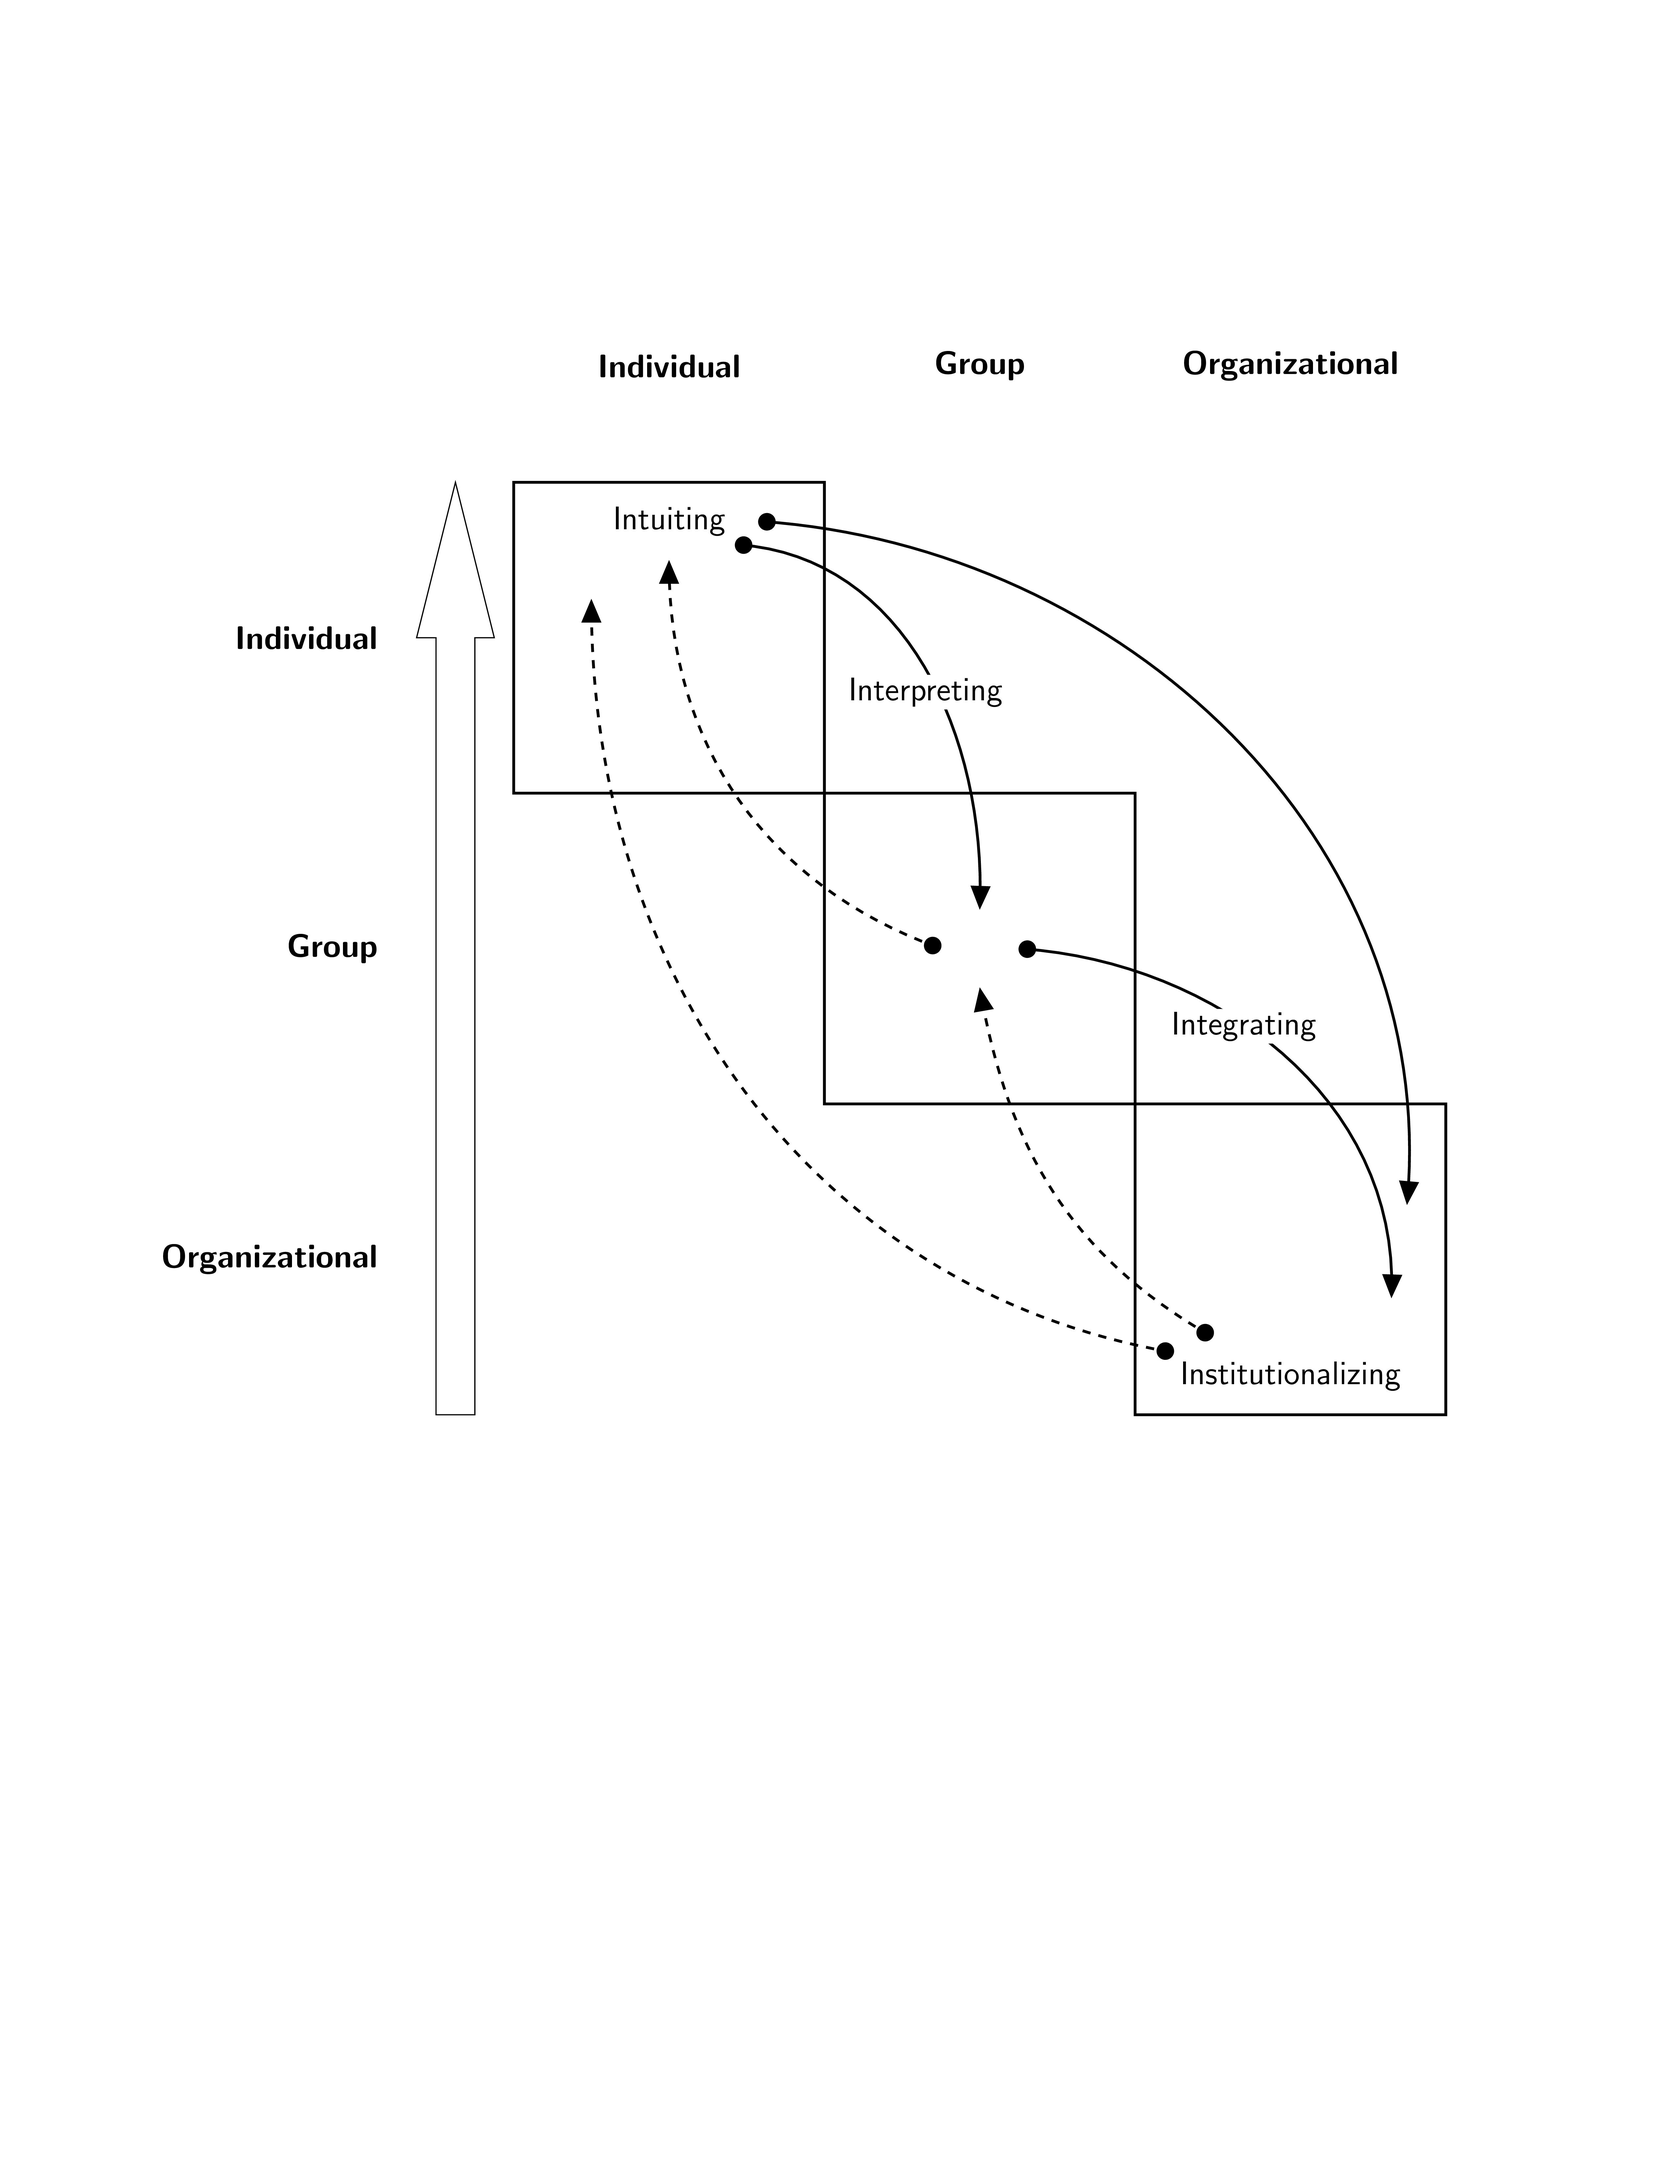
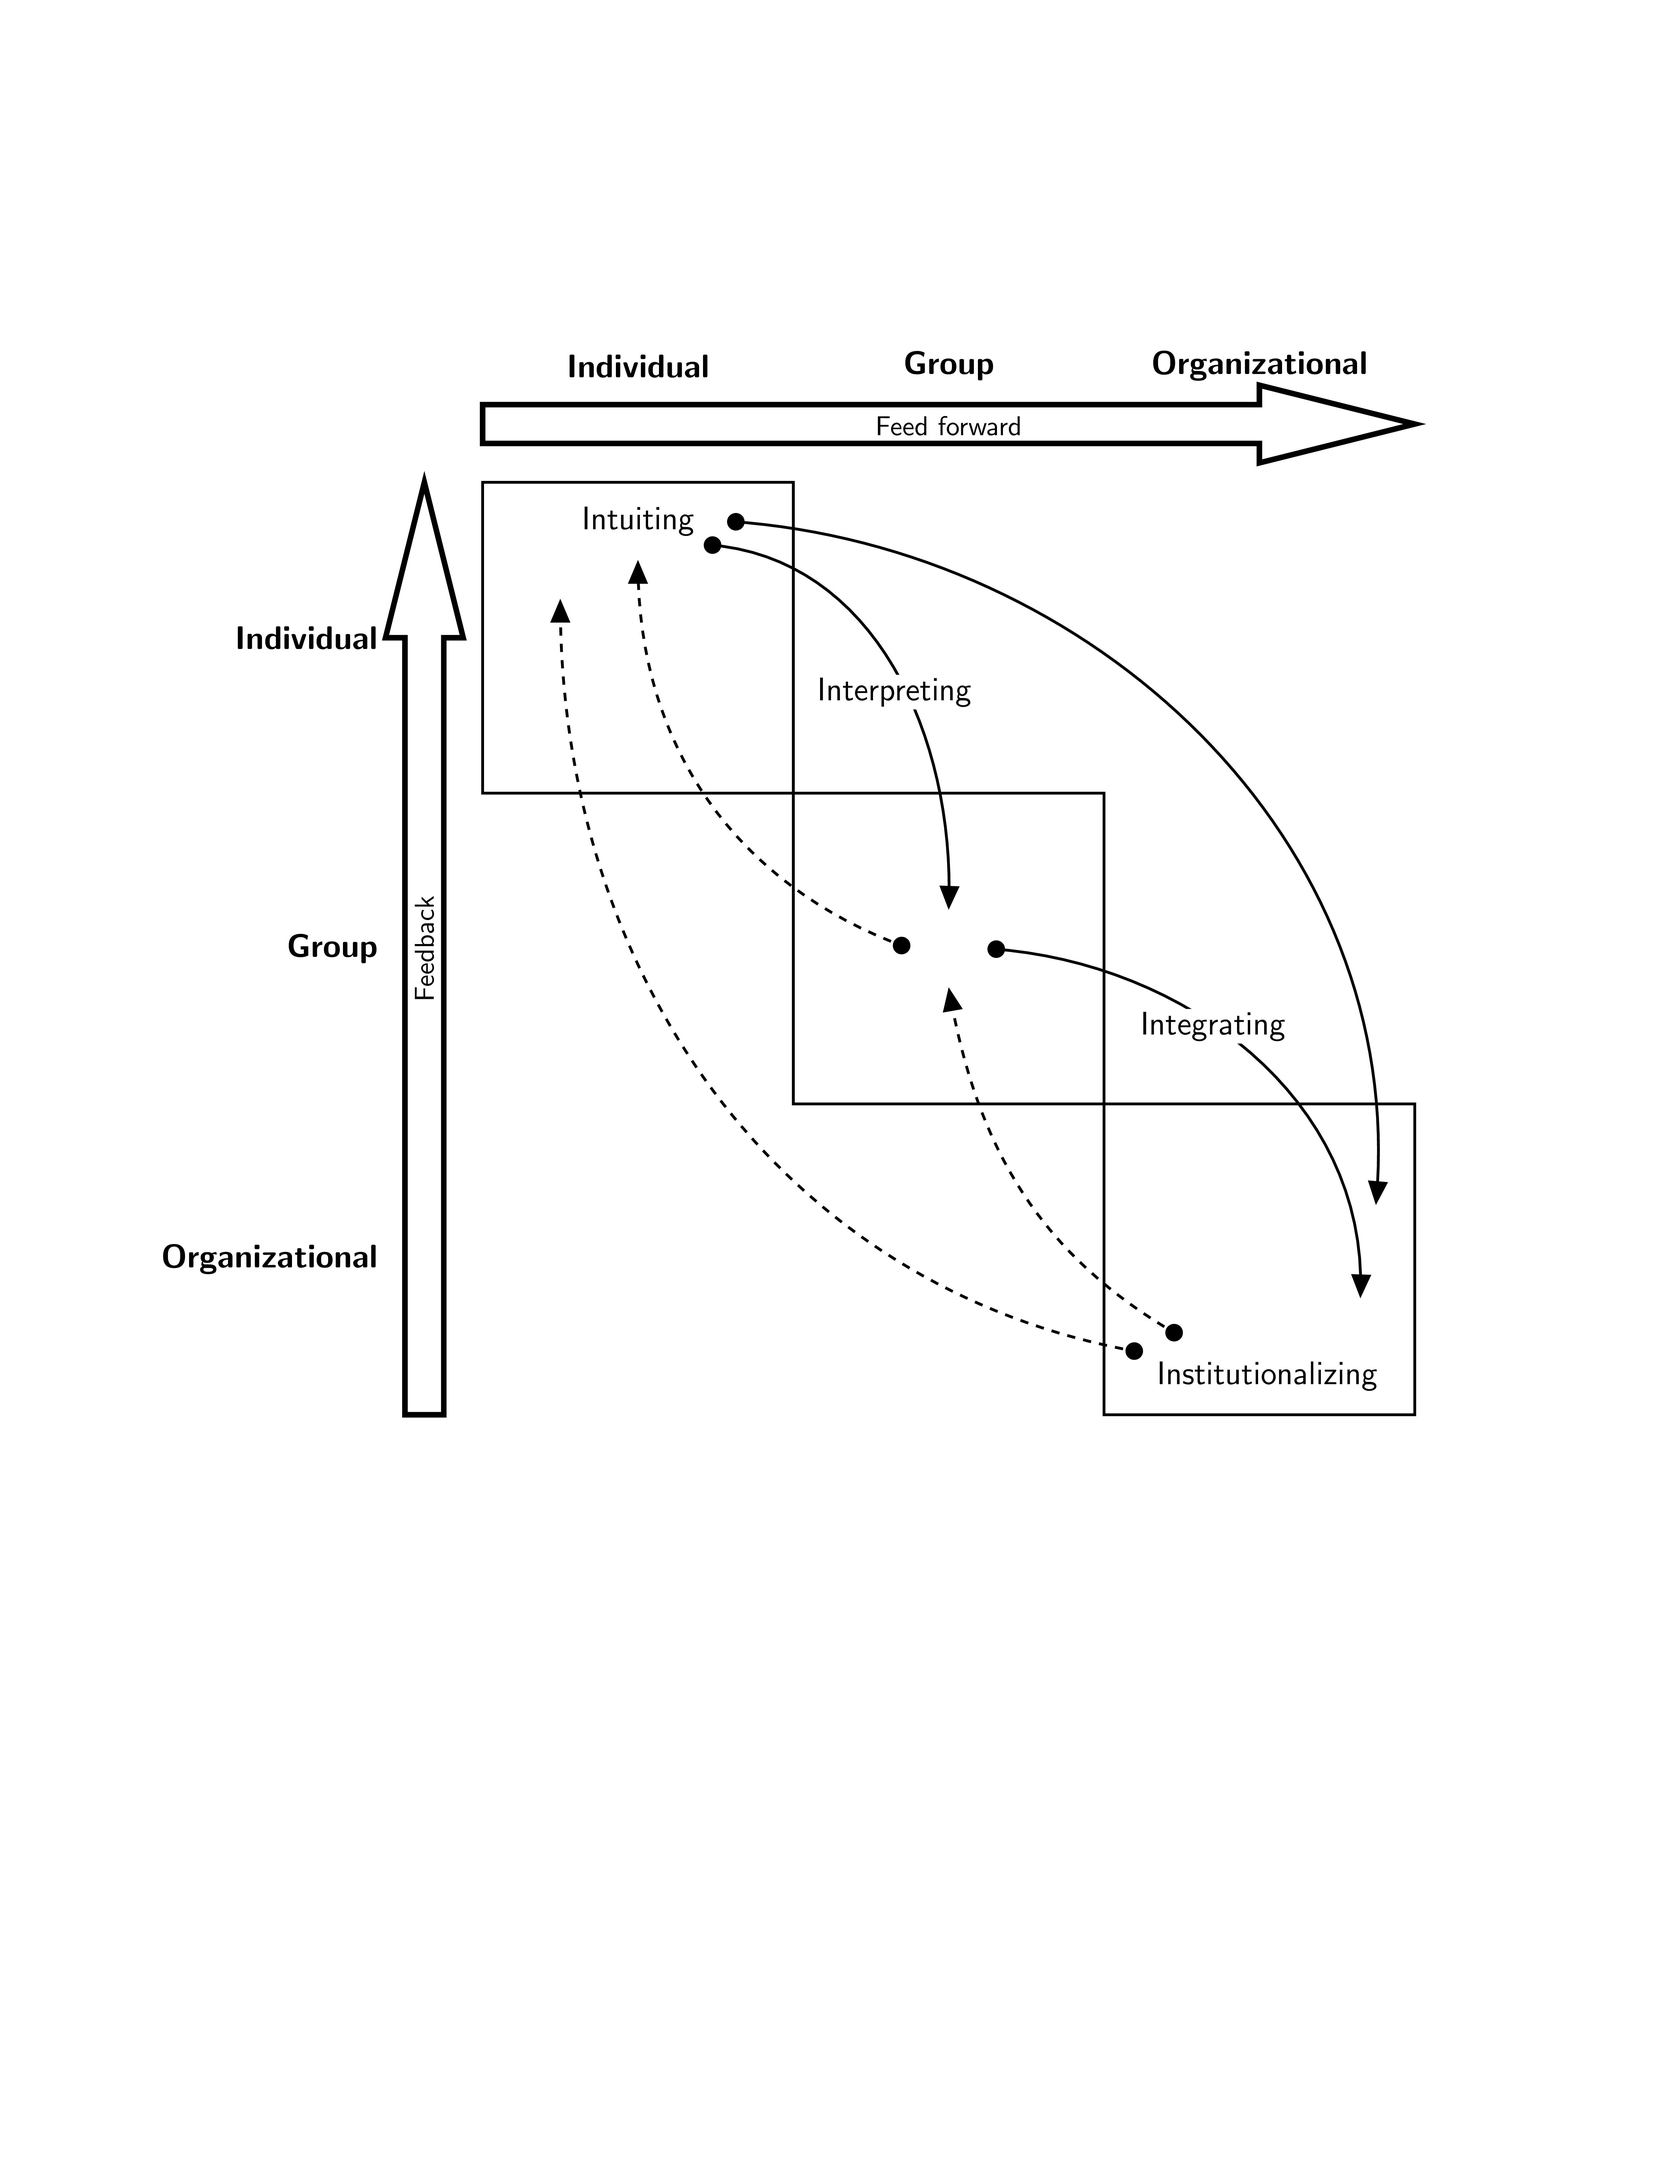
Completed diagram; added rotated arrow, text in arrows

diff --git a/Crossan_Lane_White_AMR24_3_1999_figure1_p532.tex b/Crossan_Lane_White_AMR24_3_1999_figure1_p532.tex
@@ -1,6 +1,9 @@
+
+
 % Copyright (C) 2015 Glen Newton
 % Author: Glen Newton
-%  Licensed under a Creative Commons Attribution-NonCommercial-ShareAlike 4.0 International License
+%  Licensed under a Creative Commons
+% Attribution-NonCommercial-ShareAlike 4.0 International License
 
 \documentclass{article}
 
@@ -27,35 +30,50 @@
 
 
 %%%%%%%%%%%%%%%%%%%%%%%%%%
-  \node[draw,rectangle,minimum width=4cm,minimum height=4cm,inner sep=0pt,outer sep=0pt,line width=1pt] at (2,2) (A1) {};
+  \node[draw,rectangle,minimum width=4cm,minimum height=4cm,inner
+sep=0pt,outer sep=0pt,line width=1pt] at (2,2) (A1) {};
   \node (NIntuiting) at ([yshift=15mm]A1.center) {\large Intuiting};
 
   %\draw[step=1cm,gray,very thin] (0,-8) grid (14,4);
 
 %%%%%%%%%%%%%%%%%%%%%%%%%%
-\node[draw,rectangle,minimum width=4cm,minimum height=4cm,inner sep=0pt,outer sep=0pt,line width=1pt] at (6,-2) (A2) {};
+\node[draw,rectangle,minimum width=4cm,minimum height=4cm,inner
+sep=0pt,outer sep=0pt,line width=1pt] at (6,-2) (A2) {};
 
 %%%%%%%%%%%%%%%%%%%%%%%%%%
-\node[draw,rectangle,minimum width=4cm,minimum height=4cm,inner sep=0pt,outer sep=0pt,line width=1pt] at (10,-6) (A3) {};
+\node[draw,rectangle,minimum width=4cm,minimum height=4cm,inner
+sep=0pt,outer sep=0pt,line width=1pt] at (10,-6) (A3) {};
 
 %%%
 
 %DOWN
 
-\draw [*->,line width=1pt] ([yshift=-3mm]NIntuiting.east) to [out=-4,in=88] ([yshift=5mm]A2.center);
-\draw [*->,line width=1pt] ([xshift=3mm]NIntuiting.east) to [out=-4,in=85] ([yshift=7mm,xshift=15mm]A3.center);
-\draw [*->,line width=1pt] ([xshift=5mm]A2.center) to [out=-4,in=88] ([yshift=-5mm,xshift=13mm]A3.center);
+\draw [*->,line width=1pt] ([yshift=-3mm]NIntuiting.east) to
+[out=-4,in=88] ([yshift=5mm]A2.center);
+\draw [*->,line width=1pt] ([xshift=3mm]NIntuiting.east) to
+[out=-4,in=85] ([yshift=7mm,xshift=15mm]A3.center);
+\draw [*->,line width=1pt] ([xshift=5mm]A2.center) to [out=-4,in=88]
+([yshift=-5mm,xshift=13mm]A3.center);
 
 % UP
-\draw [*->,line width=1pt, dashed] ([xshift=-15mm,yshift=-12mm]A3.center) to [out=170,in=270] ([yshift=5mm,xshift=-10mm]A1.center);
-\draw [*->,line width=1pt, dashed] ([xshift=-10mm,yshift=-10mm]A3.center) to [out=150,in=280] ([yshift=-5mm]A2.center);
-\draw [*->,line width=1pt, dashed] ([xshift=-5mm]A2.center) to [out=160,in=270] ([yshift=10mm]A1.center);
+\draw [*->,line width=1pt, dashed]
+([xshift=-15mm,yshift=-12mm]A3.center) to [out=170,in=270]
+([yshift=5mm,xshift=-10mm]A1.center);
+\draw [*->,line width=1pt, dashed]
+([xshift=-10mm,yshift=-10mm]A3.center) to [out=150,in=280]
+([yshift=-5mm]A2.center);
+\draw [*->,line width=1pt, dashed] ([xshift=-5mm]A2.center) to
+[out=160,in=270] ([yshift=10mm]A1.center);
 
 
 
-\node (NIntegrating)[fill=white,rounded corners=2pt,inner sep=1pt] at ([xshift=14mm,yshift=-10mm]A2.east) {\large Integrating};
-\node (NInstitutionalizing) at ([yshift=-15mm]A3.center) {\large Institutionalizing};
-\node (NInterpreting)[fill=white,rounded corners=2pt,inner sep=1pt](NInterpreting) at ([xshift=13mm,yshift=-7mm]A1.east) {\large Interpreting};
+\node (NIntegrating)[fill=white,rounded corners=2pt,inner sep=1pt] at
+([xshift=14mm,yshift=-10mm]A2.east) {\large Integrating};
+\node (NInstitutionalizing) at ([xshift=1mm,yshift=-15mm]A3.center) {\large
+Institutionalizing};
+\node (NInterpreting)[fill=white,rounded corners=2pt,inner
+sep=1pt](NInterpreting) at ([xshift=13mm,yshift=-7mm]A1.east) {\large
+Interpreting};
 %%%%%%%%%%%%%%%
 %%%%%%%%%%%%%%%%%%
 
@@ -64,14 +82,25 @@
 %TOP
 \node (TopIndividual) at ([yshift=35mm]A1.center) {\large \bf Individual};
 \node (TopGroup) at ([yshift=75mm]A2.center) {\large \bf Group};
-\node (TopOrganizational) at ([yshift=115mm]A3.center) {\large \bf Organizational};
+\node (TopOrganizational) at ([yshift=115mm]A3.center) {\large \bf
+Organizational};
 
 %SIDE
-\node (SideIndividual)[text width=3.5cm,align=right] at ([xshift=-53mm]A1.center) {\large \bf \hfill Individual};
-\node (SideGroup)[text width=3.5cm,align=right] at ([xshift=-93mm]A2.center) {\large \bf \hfill Group};
-\node (SideOrganizational)[text width=3.5cm,align=right] at ([xshift=-133mm]A3.center) {\large \bf\hfill Organizational};
+\node (SideIndividual)[text width=3.5cm,align=right] at
+([xshift=-51mm]A1.center) {\large \bf \hfill Individual};
+\node (SideGroup)[text width=3.5cm,align=right] at
+([xshift=-91mm]A2.center) {\large \bf \hfill Group};
+\node (SideOrganizational)[text width=3.5cm,align=right] at
+([xshift=-131mm]A3.center) {\large \bf\hfill Organizational};
 
-\draw   (-1,-8)--(-.50,-8)--(-.50,2)--(-.25,2)--(-.75,4)--(-1.25,2)--(-1,2)--cycle;
+\draw[line width=2pt]
+(-1,-8)--(-.50,-8)--(-.50,2)--(-.25,2)--(-.75,4)--(-1.25,2)--(-1,2)--cycle;
+ \node [rotate=90] at (-.75,-2) {Feedback};
+
+\draw[rotate=-90,shift={(-4 cm,8 cm)},line width=2pt]
+(-1,-8)--(-.50,-8)--(-.50,2)--(-.25,2)--(-.75,4)--(-1.25,2)--(-1,2)--cycle;
+ \node at (6cm,4.73cm) {Feed forward};
+
 
 
 

diff --git a/README.md b/README.md
@@ -11,16 +11,20 @@ Published by: Academy of Management
 ```
 Stable URL: (http://www.jstor.org/stable/259140)[http://www.jstor.org/stable/259140]
 
+## Referencing
+If you use this diagram, you should reference it directly, as "Newton,G. 2015, after Crossan, et al. 1999".
+
 #Requirements
 Needs install of LaTeX and TikZ.
 Needs TikZ packages: `shapes.geometric,arrows,positioning`
 
 #Building
+##PDF
 ```
 $ pdflatex Crossan_Lane_White_AMR24_3_1999_figure1_p532.tex
 ```
 
-## Make JPEG image
+## JPEG
 ```
 $ gs -dSAFER -dBATCH -dNOPAUSE -sDEVICE=jpeg -dDOINTERPOLATE -dTextAlphaBits=4 -dGraphicsAlphaBits=4 -r600x600 -dMaxBitmap=500000000 -dAlignToPixels=0 -dGridFitTT=2 -sOutputFile=Crossan_Lane_White_AMR24_3_1999_figure1_p532.jpg Crossan_Lane_White_AMR24_3_1999_figure1_p532.pdf
 ```
@@ -31,6 +35,7 @@ $ gs -dSAFER -dBATCH -dNOPAUSE -sDEVICE=jpeg -dDOINTERPOLATE -dTextAlphaBits=4 -
 ![alt text](https://raw.githubusercontent.com/gnewton/clw1999/master/Crossan_Lane_White_AMR24_3_1999_figure1_p532.jpg)
 
 
+#Licence
 ![CC logo](https://i.creativecommons.org/l/by-nc-sa/4.0/88x31.png)
 
 Licensed under a [Creative Commons Attribution-NonCommercial-ShareAlike 4.0 International License](http://creativecommons.org/licenses/by-nc-sa/4.0/)
